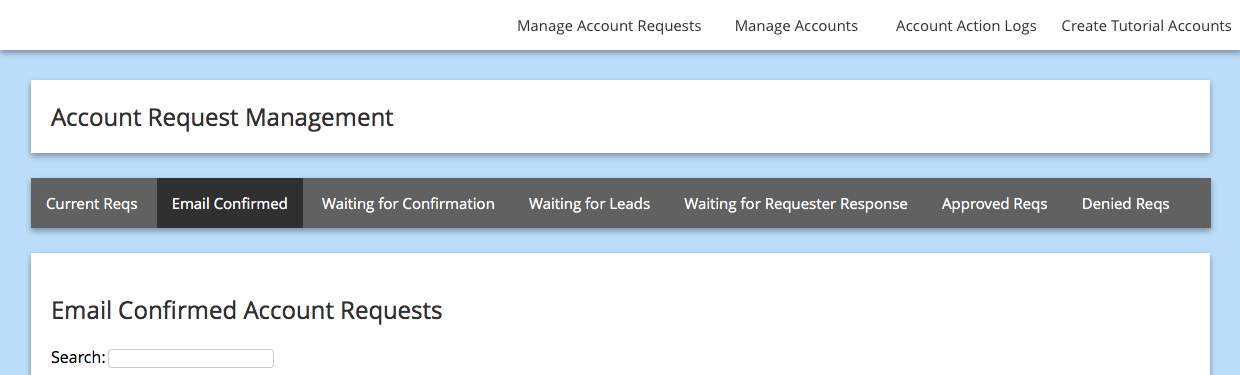
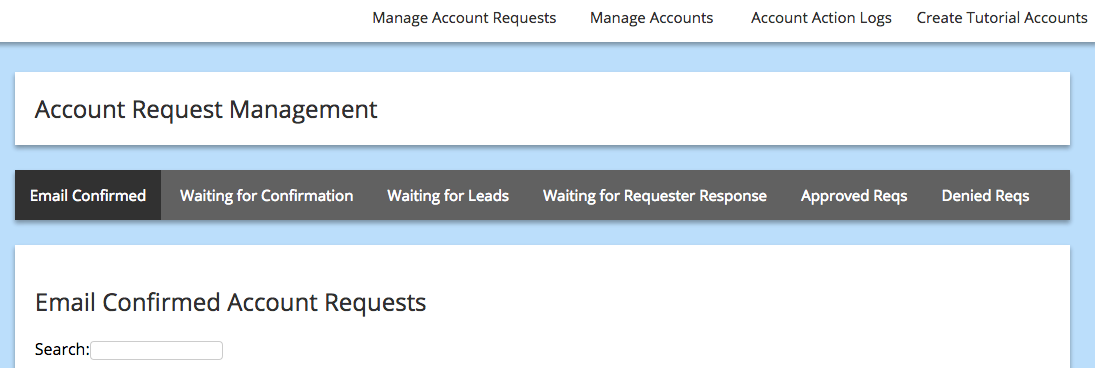
Issue #148: Drop the Current Reqs tab, so Email Confirmed is default tab. Waiting for Confirmation tab now shows both those in CONFIRM state (sent confirmation email, but no reply yet), and REQUEST (to cover the transition period and for debugging, otherwise there shouldn't be any that stay in that 

diff --git a/protected/display_requests.php b/protected/display_requests.php
@@ -22,6 +22,7 @@
 // IN THE WORK.
 //----------------------------------------------------------------------
 require_once('db_utils.php');
+require_once('response_format.php');
 require_once('ar_constants.php');
 include_once('/etc/geni-ar/settings.php');
 
@@ -59,7 +60,7 @@ function get_values($row)
 
 
 require_once("header.php");
-show_header("Account Request Management", array("#currentrequests", "#confirmedrequests", "#requesterconfirmation", "#waitingforlead",
+show_header("Account Request Management", array("#confirmedrequests", "#requesterconfirmation", "#waitingforlead",
                                                "#requesterresponse", "#approvedrequests", "#deniedrequests"));
 ?>
 
@@ -79,58 +80,13 @@ $(document).ready(function(){
 <!-- TODO: Will some of these go away with the new system? Seems like a lot of states -->
 <div class='nav2'>
   <ul class='tabs'>
-    <li><a class='tab' data-tabindex='1' href='#currentrequestsdiv'>Current Reqs</a></li>
-    <li><a class='tab' data-tabindex='2' href='#confirmedrequestsdiv'>Email Confirmed</a></li>
-    <li><a class='tab' data-tabindex='3' href='#requesterconfirmationdiv'>Waiting for Confirmation</a></li>
-    <li><a class='tab' data-tabindex='4' href='#waitingforleaddiv'>Waiting for Leads</a></li>
-    <li><a class='tab' data-tabindex='5' href='#requesterresponsediv'>Waiting for Requester Response</a></li>
-    <li><a class='tab' data-tabindex='6' href='#approvedrequestsdiv'>Approved Reqs</a></li>
-    <li><a class='tab' data-tabindex='7' href='#deniedrequestsdiv'>Denied Reqs</a></li>
+    <li><a class='tab' data-tabindex='1' href='#confirmedrequestsdiv'>Email Confirmed</a></li>
+    <li><a class='tab' data-tabindex='2' href='#requesterconfirmationdiv'>Waiting for Confirmation</a></li>
+    <li><a class='tab' data-tabindex='3' href='#waitingforleaddiv'>Waiting for Leads</a></li>
+    <li><a class='tab' data-tabindex='4' href='#requesterresponsediv'>Waiting for Requester Response</a></li>
+    <li><a class='tab' data-tabindex='5' href='#approvedrequestsdiv'>Approved Reqs</a></li>
+    <li><a class='tab' data-tabindex='6' href='#deniedrequestsdiv'>Denied Reqs</a></li>
   </ul>
-</div>
-
-<div class='card' id='currentrequestsdiv'>
-<h2>Current Account Requests</h2>
-<table id='currentrequests'>
-<thead>
-<tr>
-  <th>&nbsp;</th><th>Institution</th><th>Job Title</th><th>Account Reason</th>
-  <th>Email Address</th><th>First Name</th><th>Last Name</th><th>Phone Number</th>
-  <th>Username</th><th>Requested (UTC)</th><th>Notes</th>
-</tr>
-</thead>
-<tbody>
-<?php
-
-$conn = db_conn();
-$sql = "SELECT * FROM " . $AR_TABLENAME . " WHERE request_state='"
-  . AR_STATE::REQUESTED . "' or request_state='" . AR_STATE::PASSWD . '\'';
-$result = db_fetch_rows($sql);
-if ($result['code'] != 0) {
-  process_error("Query failed to postgres database");
-  exit();
-}
-$rows = $result['value'];
-
-
-foreach ($rows as $row) {
-  get_values($row);
-  print "<tr>";
-  print'<td class="actions">';
-  print '<form method="POST" action="request_actions.php">';
-  $actions = '<select class="actionselect" name=action><option disabled selected> -- select an option -- </option><option value="approve">APPROVE</option><option value="deny">DENY</option><option value="confirm">CONFIRM REQUESTER</option><option value="leads">EMAIL LEADS</option><option value="requester">EMAIL REQUESTER</option><option value="passwd">CHANGE PASSWRD</option><option value="note">ADD NOTE</option></select>';
-  print $actions;
-  print '<input type="submit" value="SUBMIT" class="actionsubmit" disabled />';
-  print "<input type=\"hidden\" name=\"id\" value=\"$id\"/>";
-  print "</form>";
-  print "</td>";
-
-  print "<td>$org</td><td>$title</td><td>$reason</td><td>$email</td><td>$firstname</td><td>$lastname</td><td>$phone</td><td>$uname</td><td>$requested</td><td>$notes</td>";
-  print '</tr>';
-}
-?>
-</tbody>
-</table>
 </div>
 
 <div class='card' id='confirmedrequestsdiv'>
@@ -147,9 +103,9 @@ foreach ($rows as $row) {
 <?php
 
 $conn = db_conn();
-$sql = "SELECT * FROM " . $AR_TABLENAME . " WHERE request_state='EMAIL_CONFIRMED'";
+$sql = "SELECT * FROM " . $AR_TABLENAME . " WHERE request_state='" . AR_STATE::EMAIL_CONF . "'";
 $result = db_fetch_rows($sql);
-if ($result['code'] != 0) {
+if ($result[RESPONSE_ARGUMENT::CODE] != RESPONSE_ERROR::NONE) {
   process_error("Query failed to postgres database");
   exit();
 }
@@ -192,9 +148,11 @@ foreach ($rows as $row) {
 
 <?php
 
-$sql = "SELECT * FROM " . $AR_TABLENAME . " WHERE request_state='" . AR_STATE::CONFIRM . '\'';
+// $sql = "SELECT * FROM " . $AR_TABLENAME . " WHERE request_state='" . AR_STATE::CONFIRM . "'";
+// Useful for debugging, and to cover the transition from old (stay REQUESTED) to new (move to CONFIRM when email sent)
+$sql = "SELECT * FROM " . $AR_TABLENAME . " WHERE request_state='" . AR_STATE::CONFIRM . "' or request_state = '" . AR_STATE::REQUESTED . "'";
 $result = db_fetch_rows($sql);
-if ($result['code'] != 0) {
+if ($result[RESPONSE_ARGUMENT::CODE] != RESPONSE_ERROR::NONE) {
   process_error("Postgres database query failed");
   exit();
 }
@@ -204,7 +162,7 @@ foreach ($rows as $row) {
   get_values($row);
   $sql = "SELECT performer, action_ts from idp_account_actions WHERE uid='" . $uname . "' and action_performed='Requested Confirmation' ORDER BY id desc";
   $action_result = db_fetch_rows($sql);
-  if ($action_result['code'] != 0) {
+  if ($action_result[RESPONSE_ARGUMENT::CODE] != RESPONSE_ERROR::NONE) {
     process_error("Postgres database query failed");
     exit();
   }
@@ -215,8 +173,9 @@ foreach ($rows as $row) {
     $action_ts = substr($action_ts,0,16);
   }
   else {
-    $performer = "";
-    $action_ts = "";
+    // Users account request causes the conformation email to be sent automatically
+    $performer = "Self";
+    $action_ts = $requested;
   }
   print "<tr>";
   print'<td class="actions">';
@@ -251,7 +210,7 @@ foreach ($rows as $row) {
 <?php
 $sql = "SELECT * FROM " . $AR_TABLENAME . " WHERE request_state='" . AR_STATE::LEADS . '\'';
 $result = db_fetch_rows($sql);
-if ($result['code'] != 0) {
+if ($result[RESPONSE_ARGUMENT::CODE] != RESPONSE_ERROR::NONE) {
   process_error("Postgres database query failed");
   exit();
 }
@@ -260,7 +219,7 @@ foreach ($rows as $row) {
   get_values($row);
   $sql = "SELECT performer, action_ts from idp_account_actions WHERE uid='" . $uname . "' and action_performed='Emailed Leads' ORDER BY id desc";
   $action_result = db_fetch_rows($sql);
-  if ($action_result['code'] != 0) {
+  if ($action_result[RESPONSE_ARGUMENT::CODE] != RESPONSE_ERROR::NONE) {
     process_error("Postgres database query failed");
     exit();
   }
@@ -307,7 +266,7 @@ foreach ($rows as $row) {
 <?php
 $sql = "SELECT * FROM " . $AR_TABLENAME . " WHERE request_state='" . AR_STATE::REQUESTER . '\'';
 $result = db_fetch_rows($sql);
-if ($result['code'] != 0) {
+if ($result[RESPONSE_ARGUMENT::CODE] != RESPONSE_ERROR::NONE) {
   process_error("Postgres database query failed");
   exit();
 }
@@ -317,7 +276,7 @@ foreach ($rows as $row) {
   $sql = "SELECT performer, action_ts from idp_account_actions WHERE uid='" . $uname . "' and action_performed='Emailed Requester' ORDER BY id desc";
   $action_result = db_fetch_rows($sql);
   $logs = $action_result['value'];
-  if ($action_result['code'] != 0) {
+  if ($action_result[RESPONSE_ARGUMENT::CODE] != RESPONSE_ERROR::NONE) {
     process_error("Postgres database query failed");
     exit();
   }
@@ -361,7 +320,7 @@ foreach ($rows as $row) {
 <?php
 $sql = "SELECT * FROM " . $AR_TABLENAME . " WHERE request_state='" . AR_STATE::APPROVED . "' ORDER BY created_ts desc";
 $result = db_fetch_rows($sql);
-if ($result['code'] != 0) {
+if ($result[RESPONSE_ARGUMENT::CODE] != RESPONSE_ERROR::NONE) {
   process_error("Postgres database query failed");
   exit();
 }
@@ -388,7 +347,7 @@ foreach ($rows as $row) {
           . "           )"
           . " ORDER BY id desc");
   $action_result = db_fetch_rows($sql);
-  if ($action_result['code'] != 0) {
+  if ($action_result[RESPONSE_ARGUMENT::CODE] != RESPONSE_ERROR::NONE) {
     process_error("Postgres database query failed");
     exit();
   }
@@ -428,7 +387,7 @@ $sql = "SELECT * FROM " . $AR_TABLENAME . " WHERE request_state='" . AR_STATE::D
 $result = db_fetch_rows($sql);
 
 $rows = $result['value'];
-if ($result['code'] != 0) {
+if ($result[RESPONSE_ARGUMENT::CODE] != RESPONSE_ERROR::NONE) {
   process_error("Postgres database query failed");
   exit();
 }

diff --git a/lib/php/header.php b/lib/php/header.php
@@ -38,7 +38,6 @@ function show_header($title, $table_ids) {
   // [9, 'desc'] means order table based on values in 9th column (zero indexed),
   // in descending order
   $table_orders = array(
-    "#currentrequests" => "[9, 'desc']",
     "#confirmedrequests" => "[9, 'desc']",
     "#requesterconfirmation" => "[9, 'desc']",
     "#waitingforlead" => "[9, 'desc']",

diff --git a/CHANGES.md b/CHANGES.md
@@ -2,6 +2,11 @@
 
 # [Release 1.8](https://github.com/GENI-NSF/geni-ar/milestones/1.8)
 
+* Removed `Current Reqs` tab; default is `Email Confirmed`.
+  Added an EMAIL_CONFIRMED state constant, and make more use
+  of constants. New requests change to state `CONFIRM`
+  once the automatic email to confirm their address is sent.
+  ([#148](https://github.com/GENI-NSF/geni-ar/issues/148))
 * Add initial system documentation
   ([#152](https://github.com/GENI-NSF/geni-ar/issues/152))
 
